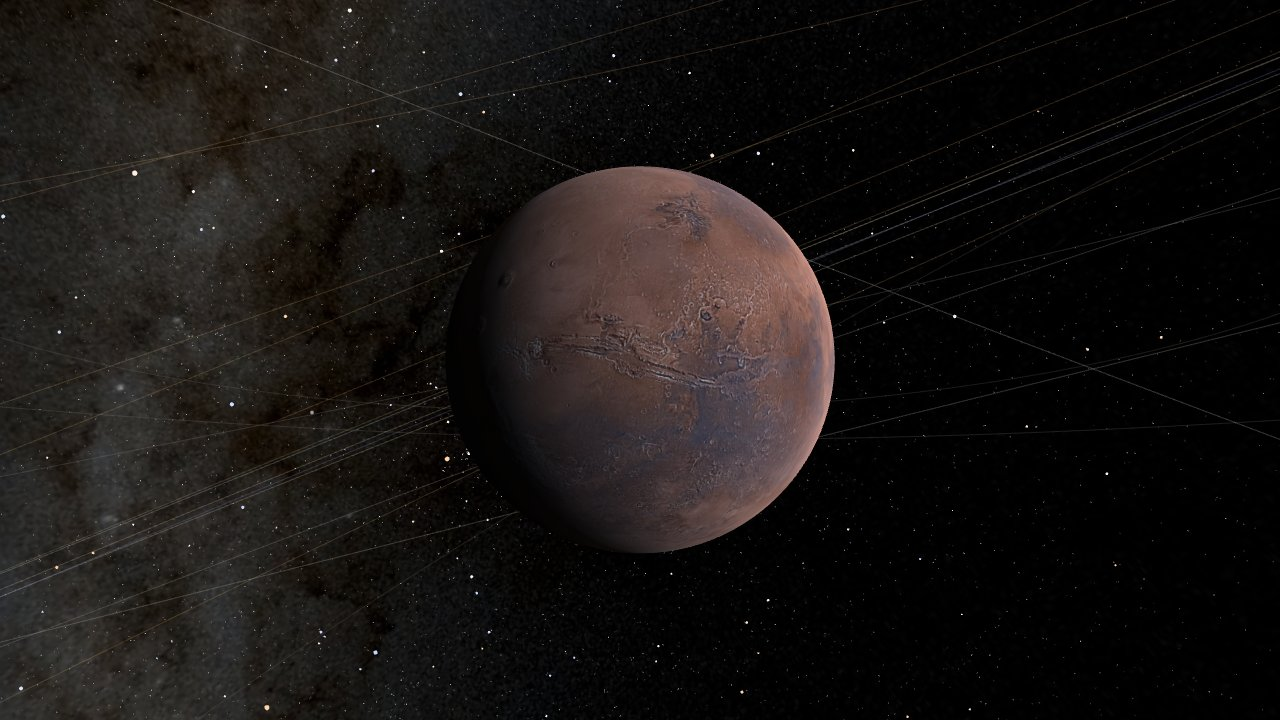
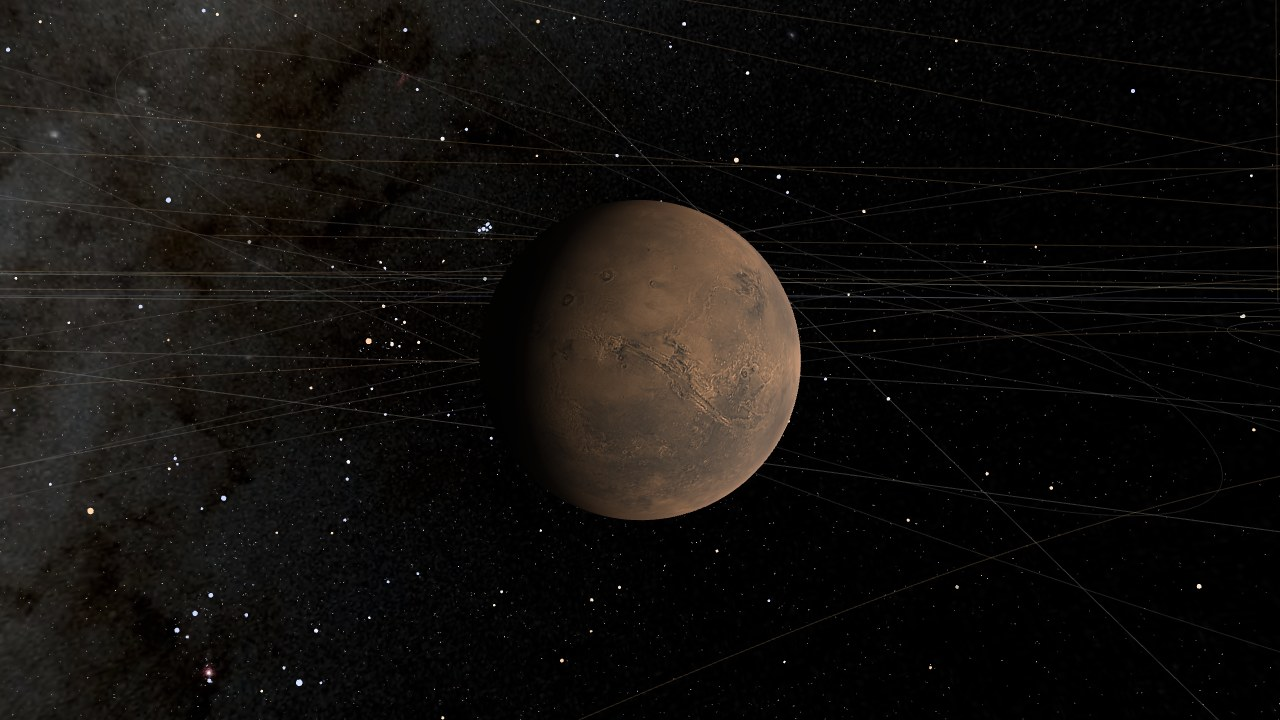
Adjust exposure near the ground, correct the Mars map hues, and retake README images with fixed scenes

diff --git a/tools/retake_gallery.py b/tools/retake_gallery.py
@@ -1,0 +1,93 @@
+#!/usr/bin/env python3
+# Solar System Voyager — Copyright (c) 2026 hubstacksea
+# MIT License (LICENSE を参照) — https://github.com/hubstacksea/Solar-System-Simulator
+"""README の画像のうち、地表の見え方（光り方・地図の色・露出）が変わると撮り直すものを、毎回同じ場面で撮る。
+
+日時はすべて固定（PC の時刻によらない）。場所と向きは天体に固定した座標の共有リンク（at=）で指定する。
+
+使い方: python3 tools/retake_gallery.py <実行ファイル> <出力先フォルダ> [名前 ...] [--apply]
+  名前を省くとすべて撮る。--apply を付けると docs/screenshots/<名前>.jpg に書き出す（1280x720、JPEG 品質 88）
+必要なもの: Pillow（--apply の時だけ）
+"""
+import datetime
+import math
+import os
+import subprocess
+import sys
+
+
+def at(body, r_km, lat, lon, alt_km, az, pitch, t):
+    """天体の緯度・経度（度、球として）・高度に置き、方位 az・俯角 pitch（度）を向く共有リンク（t は J2000 からの日数）"""
+    la, lo = math.radians(lat), math.radians(lon)
+    up = (math.cos(la) * math.cos(lo), math.sin(la), -math.cos(la) * math.sin(lo))
+    north = (-math.sin(la) * math.cos(lo), math.cos(la), math.sin(la) * math.sin(lo))
+    east = (-math.sin(lo), 0.0, -math.cos(lo))
+    a, p = math.radians(az), math.radians(pitch)
+    h = [north[i] * math.cos(a) + east[i] * math.sin(a) for i in range(3)]
+    fwd = [h[i] * math.cos(p) + up[i] * math.sin(p) for i in range(3)]
+    u2 = [up[i] * math.cos(p) - h[i] * math.sin(p) for i in range(3)]
+    pos = [up[i] * (r_km + alt_km) for i in range(3)]
+    return "?t=%s&at=%s,%s&p=1" % (t, body, ",".join("%.6f" % x for x in pos + fwd + u2))
+
+
+def hours(iso):
+    """--hours に渡す、今から iso（UTC）までの時間"""
+    now = datetime.datetime.now(datetime.timezone.utc)
+    return "%.6f" % ((datetime.datetime.fromisoformat(iso).replace(tzinfo=datetime.timezone.utc) - now).total_seconds() / 3600)
+
+
+def earth_alt(lat, alt_km):
+    """地球の楕円体の上 alt_km の点の、半径 6378.137 km の球としての高度"""
+    a, b, l = 6378.137, 6356.752, math.radians(lat)
+    r = math.sqrt(((a * a * math.cos(l)) ** 2 + (b * b * math.sin(l)) ** 2) / ((a * math.cos(l)) ** 2 + (b * math.sin(l)) ** 2))
+    return r + alt_km - a
+
+
+COCKPIT = ["--cockpit", "--photo", "2"]
+# 名前: (起動オプション, 仕上げ（None: そのまま / "half": 2 倍の画素で撮って縮める / "crop": 2 倍の画素で撮って中央を切り出す）)
+SHOTS = {
+    "sunset": (lambda: ["--frames", "30", "--hours", hours("2026-10-29 02:09"), "--target", "3", "--at", "35", "-134", "0.1",
+                        "--face-sun", "3"], None),
+    "mars_sky": (lambda: ["--frames", "30", "--hours", hours("2026-10-29 08:09"), "--target", "4", "--at", "0", "0", "0.1",
+                          "--face-sun", "20"], None),   # 太陽高度 約 20°
+    "mars_map": (lambda: ["--frames", "220", "--photo", "2", "--hours", hours("2026-10-29 15:43"), "--target", "4", "--warp"],
+                 None),   # マリネリス峡谷が正面
+    "moon_terrain": (lambda: ["--frames", "300", *COCKPIT, "--share", at("Moon", 1737.4, 25.9, 3.3, 0.5, 50, -3, 9819.0)], None),
+    "mars_terrain": (lambda: ["--frames", "300", *COCKPIT, "--share", at("Mars", 3395.4, -12.5, -66, 3, 100, -8, 9816.9)], None),
+    "earth_mountains": (lambda: ["--frames", "240", *COCKPIT, "--share",
+                                 at("Earth", 6378.137, 27.80, 86.95, earth_alt(27.80, 7.0), 0, 5, 9816.58)], None),
+    "apollo15_landing": (lambda: ["--frames", "600", "--photo", "2", "--share", "?apollo=15&scene=12"], None),
+    # スカイクレーン: 着地の 8.5 秒前のパーシビアランス（中心から 3391.6015 km）の南 69 m・上 50 m から北へ 36° 見下ろす
+    "perseverance_skycrane": (lambda: ["--frames", "200", "--zoom", "12", "--dpi", "2", *COCKPIT, "--share",
+                                       at("Mars", 3391.6015, 18.444626 - math.degrees(0.069 / 3391.6015), 77.450789, 0.050, 0, -36,
+                                          "%.8f" % (7719.36375947 - 8.5 / 86400)) + "&tg=Perseverance"], "half"),
+    "spirit_airbags": (lambda: ["--frames", "200", "--zoom", "16", "--dpi", "2", *COCKPIT, "--share",
+                                at("Mars", 3392.30, -14.5747, 175.4785, 0.15, 359.2, 46, "%.8f" % (1463.68439725 - 3 / 86400))
+                                + "&tg=Spirit"], "crop"),
+}
+
+
+def main():
+    args = [a for a in sys.argv[1:] if a != "--apply"]
+    exe, out = os.path.abspath(args[0]), args[1]
+    names = args[2:] or list(SHOTS)
+    os.makedirs(out, exist_ok=True)
+    for n in names:
+        opts, finish = SHOTS[n]
+        png = os.path.join(out, n + ".png")
+        r = subprocess.run([exe, "--shot", png, *opts()], stdout=subprocess.DEVNULL, stderr=subprocess.DEVNULL, timeout=600)
+        print(n, r.returncode)
+        if "--apply" in sys.argv:
+            from PIL import Image
+            im = Image.open(png).convert("RGB")
+            if finish == "half":
+                im = im.resize((1280, 720), Image.LANCZOS)
+            elif finish == "crop":
+                w, h = im.size
+                im = im.crop((w // 2 - 640, h // 2 - 360, w // 2 + 640, h // 2 + 360))
+            assert im.size == (1280, 720), (n, im.size)
+            im.save(os.path.join("docs", "screenshots", n + ".jpg"), quality=88, optimize=True)
+
+
+if __name__ == "__main__":
+    main()

diff --git a/src/app/render3d.h b/src/app/render3d.h
@@ -938,6 +938,53 @@ static double SkyDaylight(const App& app) {
     return std::min(1.0, density * 2.0) * light;
 }
 
+// 明るさの自動調整（露出）: 地表の近くでは、真下の地面に当たる光（直射 + 空の光。シェーダの sunTint・skyL と同じ式、太陽が
+// 真上の時を 1）が弱いほど画面を明るくし、白い物が白く写るようにする（光の -0.7 乗、最大 2.2 倍）。場面の平均で決めると雪原が
+// 灰色に写るので、光の強さで決める。目は明るい夕焼けの空にも合わせるので、太陽高度 2〜12° で弱めて日の入りで 1。宇宙からと夜は 1
+static double ExposureTarget(const App& app) {
+    const Cam& c = app.cam;
+    int best = -1;
+    double bestK = 1e300;
+    for (size_t i = 0; i < app.B.size(); i++) {
+        const BodyDef& d = app.B[i].d;
+        if (d.kind != KIND_ROCKY && d.kind != KIND_EARTH) continue;
+        double k = SurfaceDist(app.B[i], c.pos) / d.radius;
+        if (k < bestK) { bestK = k; best = (int)i; }
+    }
+    if (best < 0 || bestK > 0.01 || HazeWorldOf(app.B[best].d)) return 1;
+    const Body& b = app.B[best];
+    V3 up = Norm(c.pos - b.pos);
+    double el = Dot(up, Norm(app.B[HostStar(app.B, best)].pos - c.pos));
+    double e = std::max(el, 0.0), illum = e;
+    for (const SkyAtmosphere& a : SKY_ATM)
+        if (a.body == best) {
+            double m = std::min(1.0 / (e + 0.06), 7.0), ext[3] = {a.ext.x, a.ext.y, a.ext.z}, alb[3] = {a.alb.x, a.alb.y, a.alb.z};
+            double w[3] = {0.3, 0.59, 0.11};
+            illum = 0;
+            for (int k = 0; k < 3; k++) {
+                double tz = std::exp(-ext[k]), dz = a.down * alb[k] * (1 - tz) / tz;
+                double sky = a.down * alb[k] * (1 - std::exp(-ext[k] * m)) / tz * e;
+                illum += w[k] * (e * std::exp(-ext[k] * std::max(m - 1, 0.0)) + sky) / (1 + dz);
+            }
+        }
+    double g = std::min(2.2, std::pow(std::max(illum, 0.1), -0.7));
+    double day = std::max(0.0, std::min(1.0, (el - 0.035) / 0.17));
+    double near = 1 - std::max(0.0, std::min(1.0, (bestK - 0.002) / 0.008));
+    return 1 + (g - 1) * day * near;
+}
+
+// 露出の倍率を求めて、天体と自機のシェーダに渡す（3D を描く前に毎フレーム。シェーダの expo で掛ける）。空の明るさは見た目に
+// 合わせた値で、明るい空にも目が合うので掛けない
+static void UpdateExposure(App& app, float dt) {
+    double t = ExposureTarget(app);
+    static V3 last(1e300, 0, 0);   // ワープ・共有リンクなどで 1 フレームに 100 km 以上動いた時はすぐ合わせる
+    if (Len(app.cam.pos - last) > 100) app.exposure = (float)t;
+    else app.exposure += (float)((t - app.exposure) * std::min(1.0, dt * 1.5));   // 目の順応のようにゆっくり
+    last = app.cam.pos;
+    SetShaderValue(app.shader, app.locExposure, &app.exposure, SHADER_UNIFORM_FLOAT);
+    SetShaderValue(app.shipShader, app.locShipExposure, &app.exposure, SHADER_UNIFORM_FLOAT);
+}
+
 static void DrawSkyAtmosphere(const App& app) {
     double density, sunEl;
     V3 up;

diff --git a/src/main.cpp b/src/main.cpp
@@ -452,6 +452,7 @@ int main(int argc, char** argv) {
     app.locMapInfo2 = GetShaderLocation(app.shader, "mapInfo2");
     app.locMapLatK = GetShaderLocation(app.shader, "mapLatK");
     app.locOppB0 = GetShaderLocation(app.shader, "oppB0");
+    app.locExposure = GetShaderLocation(app.shader, "exposure");
     app.skyShader = LoadShaderFromMemory(GlslForPlatform(SKY_VS).c_str(), GlslForPlatform(SKY_FS).c_str());
     app.beltShader = LoadShaderFromMemory(GlslForPlatform(BELT_VS).c_str(), GlslForPlatform(BELT_FS).c_str());
     app.miniShader = LoadShaderFromMemory(GlslForPlatform(MINIGLOBE_VS).c_str(), GlslForPlatform(MINIGLOBE_FS).c_str());
@@ -479,6 +480,12 @@ int main(int argc, char** argv) {
     StartDeferredAssetDownloads();   // 地図・形・月などは、起動してから裏で読み込む
 #endif
     app.shipShader = LoadShaderFromMemory(GlslForPlatform(SHIP_VS).c_str(), GlslForPlatform(SHIP_FS).c_str());
+    app.locShipExposure = GetShaderLocation(app.shipShader, "exposure");
+    {   // 露出の倍率は毎フレーム UpdateExposure で渡す。それより前に描いても暗くならないよう 1 にしておく
+        float one = 1;
+        SetShaderValue(app.shader, app.locExposure, &one, SHADER_UNIFORM_FLOAT);
+        SetShaderValue(app.shipShader, app.locShipExposure, &one, SHADER_UNIFORM_FLOAT);
+    }
     app.locSunDir = GetShaderLocation(app.shipShader, "sunDir");
     app.locSunColor = GetShaderLocation(app.shipShader, "sunColor");
     app.locFillDir = GetShaderLocation(app.shipShader, "fillDir");
@@ -793,6 +800,7 @@ int main(int argc, char** argv) {
             rlScalef(rk, rk, 1);
         }
         ClearBackground({1, 2, 6, 255});
+        UpdateExposure(app, (float)dt);
         {
             Camera3D sky = {{0, 0, 0}, {0, 0, -1}, {0, 1, 0}, 60, CAMERA_PERSPECTIVE};
             BeginMode3D(sky);

diff --git a/src/ship_model.h b/src/ship_model.h
@@ -1338,6 +1338,12 @@ uniform vec3 engineColor;
 uniform float engineGlow; // 0..1
 uniform float navBlink;   // 0..1
 out vec4 finalColor;
+uniform float exposure;    // 明るさの自動調整の倍率（UpdateExposure）。0.75 までは掛けたまま、それより明るい所はなめらかに 1 へ寄せる（白く飛ばない）
+vec3 expo(vec3 c) {
+    if (exposure <= 1.0) return c;
+    vec3 e = c * exposure;
+    return mix(e, 0.75 + 0.25 * (1.0 - exp(-(e - 0.75) / 0.25)), step(0.75, e));
+}
 
 void main() {
     vec3 N = normalize(fragNormal);
@@ -1387,6 +1393,6 @@ void main() {
         col = mix(col, env + sunColor * pow(max(dot(R, L), 0.0), 400.0) * 3.0, fres);
     }
     col = col / (1.0 + 0.15 * col);   // ハイライトの白飛びを抑える
-    finalColor = vec4(col, 1.0);
+    finalColor = vec4(expo(col), 1.0);
 }
 )";

diff --git a/src/app/app_state.h b/src/app/app_state.h
@@ -196,6 +196,8 @@ struct App {
     int locSkyUp = -1, locSkySun = -1, locSkyBeta = -1, locSkyMie = -1, locSkyOzone = -1, locSkyDensity = -1, locSkySunVis = -1;
     int quality = 2;                      // 画質 0: 低, 1: 中, 2: 高
     float autoRes = 1;                    // ブラウザ版: 描くのが重い時に 3D の解像度に掛ける倍率（UpdateAutoRes）
+    float exposure = 1;                   // 明るさの自動調整の倍率（UpdateExposure）
+    int locExposure = -1, locShipExposure = -1;
     RenderTexture2D lowRes{};             // 画質「低」で 3D を描く縮小バッファ
     int locRelBeta = -1, locRelDir = -1, locSunInfo = -1;
     int locLight = -1, locLightObj = -1, locC1 = -1, locC2 = -1, locAtm = -1, locParams = -1, locDetail = -1;

diff --git a/README.en.md b/README.en.md
@@ -169,6 +169,8 @@ python3 tools/run_checks.py build/solar_voyager   # --no-display without a scree
 
 It checks the embedded data, 9 solar eclipses against NASA's catalog, the number of historic events, that the browser version's font has every character shown on screen (if not, rebuild it with `tools/make_web_font.py`), the browser version's shader (the vertex shader must call the relief calculation from one place only; writing it in several places kept the browser from finishing the shader translation, so it never started), warps to every body (arriving facing it and staying still) and light-speed flights just above the oblate planets (the surface must not vanish), printing PASS / FAIL for each (about 10 minutes in all).
 
+After changing how surfaces look, retake the README images that show the ground in the same scenes (fixed dates and places) with `python3 tools/retake_gallery.py build/solar_voyager <output folder> [name ...] --apply` (requires Pillow).
+
 ### Browser version (Emscripten)
 
 ```sh
@@ -334,7 +336,7 @@ On the "Apollo program" page of the event list (K), pick a flight and press Ente
 - **Body positions**: Mercury to Neptune are computed from the planetary theory VSOP87 (Bretagnon & Francou 1988, truncated to about 5,700 terms): within 1.5″ of JPL Horizons (DE441) for Mercury to Saturn and 8″ for Uranus and Neptune in 1500–2500, and within 4.4′ over 3000 BC to AD 3000 (growing into the distant past with the error of VSOP87 itself). The orbit lines are ellipses from the current position and velocity, so they pass exactly through the planets. Pluto is computed from JPL mean orbital elements and their rates via Kepler's equation. The slowing of Earth's rotation (ΔT; the Espenak & Meeus expressions used by NASA's eclipse catalog for 500 BC to AD 2150 and Morrison & Stephenson 2004 outside; about 4.8 hours in 500 BC) and the precession of Earth's axis (IAU 1976) are included. The Moon uses the series of chapter 47 of Meeus's *Astronomical Algorithms* (a truncated ELP-2000/82) with a long-term correction fitted to the Moon of JPL Horizons (DE441), so its real position and phase are reproduced. Its orientation follows the IAU rotation model of the Moon, so seen from Earth it nods by about ±8° in longitude and ±7° in latitude (libration), showing a little beyond its edges. Solar eclipses from 763 BC to AD 2950 agree with NASA's catalog within 4 minutes and 2° (checked by `tools/run_checks.py`). Other moons are placed on circular orbits in the orbital planes from JPL's mean orbital elements, with their positions fitted to JPL Horizons for 1980–2070 (most within 1°, at most a few degrees; Mimas includes its ±43° libration from the resonance with Tethys). Shadows of Jupiter's moons fall on Jupiter at nearly the real times
 - **Dwarf planets, asteroids and comets**: Ceres, Vesta, Eris, Ryugu, Bennu, Itokawa, Didymos (with its moon Dimorphos), Halley's Comet, Comet Hale-Bopp, Comet Hyakutake and Comet Churyumov-Gerasimenko. Their orbital elements and rates, in the same form as the planets', are fitted to JPL Horizons positions for 1980–2070 (direction seen from the Sun within 0.6°). Ryugu (2012–2024) and Churyumov-Gerasimenko (2012–2018) are fitted only around the time spacecraft visited them (errors 0.9° and 0.07°), because encounters with Earth and Jupiter change their orbits; they drift further away from those years. Comet Encke (period 3.3 years) is not included: Jupiter's perturbations and other effects shift its perihelion times from one passage to the next, so it cannot be fitted in this form (errors over 20°). The asteroids that spacecraft passed on their way (Gaspra, Ida, Dinkinesh, Donaldjohanson, Eurybates, Polymele, Leucus, Orus, Patroclus, Torifune and Apophis) are fitted around the time of those flybys (errors within 0.2°). Sizes and rotation periods come from the JPL Small-Body Database; Gaspra, Ida and Donaldjohanson have their real shapes, and the rest are spheres. Apophis passes 38,000 km from Earth's center on 13 April 2029, which changes its orbit, so from 2024 to 2060 it follows its JPL Horizons trajectory
 - **Comet tails**: inside 4 AU from the Sun, comets grow a coma (the glow around the nucleus) and tails that get longer and brighter closer to the Sun (the great comet Hale-Bopp starts farther out and grows larger). The blue ion tail points straight away from the Sun, the yellowish dust tail curves back along the orbit. From the comet page of the K list you can warp to Halley's perihelia in 1986 and 2061, Hyakutake passing 0.1 AU from Earth on 25 March 1996, and more
-- **Surfaces**: Jupiter carries Cassini's global map and is turned so that the Great Red Spot sits at its observed longitude for the date (System II; records since 1962, then a drift of 16° per year). Saturn also carries a Cassini global map (August 2011, showing the aftermath of the great northern storm); its poles and the band from the equator to 17° S, hidden by the ring shadow, are procedural clouds. Mercury, Mars, Ceres, Vesta, Pluto and the moons Io, Europa, Ganymede, Callisto, Mimas, Enceladus, Tethys, Dione, Rhea, Iapetus, Miranda, Ariel, Umbriel, Titania, Oberon, Triton and Charon carry real maps from spacecraft images (Olympus Mons and Valles Marineris, Pluto's heart and Enceladus's tiger stripes appear where they really are). Mars also gets relief shading from MOLA elevations. Mercury, Mars, Ceres, Vesta and Pluto rotate according to the IAU prime meridians, and the moons always keep the same face toward their planet. Areas that were never imaged (the northern hemispheres of the Uranian moons and parts of Pluto, Triton and Charon) and detail finer than the maps are filled in procedurally. Iapetus's map has its brightness flattened, so its bright and dark hemispheres are painted procedurally. Uranus, Neptune and the clouds of Venus keep procedural patterns, because no freely redistributable global maps could be found (and Uranus and Venus's clouds show almost no features in visible light). Below the cloud layer 70 km above Venus you come down onto a surface from Magellan elevations: inside the clouds is white fog, below them a uniform overcast sky, and the ground disappears into the thick haze within a few km (the brightness and haze density are estimates). The other bodies are generated procedurally in shaders; finer patterns and relief appear as you get closer, so surfaces stay detailed even near the ground. The ground on Earth and Mars is lit by sunlight weakened on its way through the atmosphere and by the light it scatters down from the sky (more on surfaces facing up; Rayleigh scattering and aerosols on Earth, and on Mars dust that dims sunlight about equally in every color and absorbs blue; the optical depths and the like are estimates). Midday colors are unchanged, shade takes the color of the sky, and mornings and evenings turn red on Earth and reddish brown on Mars. Airless bodies are lit with the opposition effect, which brightens the ground when the Sun is behind you because the shadows between grains are hidden (Hapke's shadow-hiding term, with the lunar values B0 = 1 and h = 0.06 used for all of them). Earth's ice sheets, snow and sea ice and the Martian polar caps (the white parts of the maps) get forward scattering that brightens them when you look toward the Sun at a low angle, plus a sheen, and the Martian caps get no small procedural craters. Near the ground, relief finer than the maps is shaded by surface material: on the Moon, boulders (1–12 m across) in proportion to Diviner's rock abundance; on Mars, from the TES thermal inertia and the map brightness, subdued small relief where there is dust, ripples (25 m wavelength) and dunes (300 m) on sand, and boulders on rocky ground; on Earth, judged from the map colors, dunes (120 m and 800 m) in sand deserts, a bumpy canopy in forests and wind-carved ridges on snow and ice (where each material is comes from measurements or estimates; shapes finer than a few hundred meters are procedural, sized after real ones)
+- **Surfaces**: Jupiter carries Cassini's global map and is turned so that the Great Red Spot sits at its observed longitude for the date (System II; records since 1962, then a drift of 16° per year). Saturn also carries a Cassini global map (August 2011, showing the aftermath of the great northern storm); its poles and the band from the equator to 17° S, hidden by the ring shadow, are procedural clouds. Mercury, Mars, Ceres, Vesta, Pluto and the moons Io, Europa, Ganymede, Callisto, Mimas, Enceladus, Tethys, Dione, Rhea, Iapetus, Miranda, Ariel, Umbriel, Titania, Oberon, Triton and Charon carry real maps from spacecraft images (Olympus Mons and Valles Marineris, Pluto's heart and Enceladus's tiger stripes appear where they really are). Mars also gets relief shading from MOLA elevations. Mercury, Mars, Ceres, Vesta and Pluto rotate according to the IAU prime meridians, and the moons always keep the same face toward their planet. Areas that were never imaged (the northern hemispheres of the Uranian moons and parts of Pluto, Triton and Charon) and detail finer than the maps are filled in procedurally. Iapetus's map has its brightness flattened, so its bright and dark hemispheres are painted procedurally. Uranus, Neptune and the clouds of Venus keep procedural patterns, because no freely redistributable global maps could be found (and Uranus and Venus's clouds show almost no features in visible light). Below the cloud layer 70 km above Venus you come down onto a surface from Magellan elevations: inside the clouds is white fog, below them a uniform overcast sky, and the ground disappears into the thick haze within a few km (the brightness and haze density are estimates). The other bodies are generated procedurally in shaders; finer patterns and relief appear as you get closer, so surfaces stay detailed even near the ground. The ground on Earth and Mars is lit by sunlight weakened on its way through the atmosphere and by the light it scatters down from the sky (more on surfaces facing up; Rayleigh scattering and aerosols on Earth, and on Mars dust that dims sunlight about equally in every color and absorbs blue; the optical depths and the like are estimates). Midday colors are unchanged, shade takes the color of the sky, and mornings and evenings turn red on Earth and reddish brown on Mars. Near the ground, the weaker the light falling on the ground, the brighter the ground and the ship are shown (like the eye adapting: the light to the power -0.7, at most 2.2 times; bright parts level off so they do not blow out, and the sky and haze are left as they are; not around sunset or from space). The Mars map (Viking MDIM 2.1 colored by NASA Ames) paints the dark regions bluish gray, so only its hue is replaced with estimated reflectance colors for bright dust and dark sand by brightness. Airless bodies are lit with the opposition effect, which brightens the ground when the Sun is behind you because the shadows between grains are hidden (Hapke's shadow-hiding term, with the lunar values B0 = 1 and h = 0.06 used for all of them). Earth's ice sheets, snow and sea ice and the Martian polar caps (the white parts of the maps) get forward scattering that brightens them when you look toward the Sun at a low angle, plus a sheen, and the Martian caps get no small procedural craters. Near the ground, relief finer than the maps is shaded by surface material: on the Moon, boulders (1–12 m across) in proportion to Diviner's rock abundance; on Mars, from the TES thermal inertia and the map brightness, subdued small relief where there is dust, ripples (25 m wavelength) and dunes (300 m) on sand, and boulders on rocky ground; on Earth, judged from the map colors, dunes (120 m and 800 m) in sand deserts, a bumpy canopy in forests and wind-carved ridges on snow and ice (where each material is comes from measurements or estimates; shapes finer than a few hundred meters are procedural, sized after real ones)
 - **Earth**: built from real NASA data — continents, coastlines, elevation (relief shading), ocean depth (shallow-water color), sea ice and city lights at night (about 10 km resolution; the land elevations in an area about 3,800 km across around the camera are about 1.85 km; finer detail is filled in procedurally). Its rotation follows Greenwich sidereal time, so the regions in daylight and the lit cities at night match the PC clock. The surface colors follow the date using all 12 months of Blue Marble (winter snow, green rainy seasons and so on), and clouds come from NASA's global cloud image (one day's distribution) with finer streaks added
 - **Moon**: real NASA data (LRO color and LOLA elevation, about 3–5 km resolution; the elevations in an area about 3,900 km across around the camera are about 1.9 km). Maria, craters and ray systems are where they really are; smaller craters are filled in procedurally
 - **Surface heights**: within 8 body radii of Earth, the Moon, Mars, Mercury, Venus, Ceres, Vesta, Pluto, Charon and Titan, the elevation data is drawn as 3D terrain at its true height (1x). Altitude and surface collisions are measured from the terrain, and the Apollo lunar modules and the descent stages left on the Moon sit on it. The data spacing is about 1.85 km for Earth (on land around the camera; about 10 km farther away), about 1.9 km for the Moon (around the camera; about 5 km farther away), about 3.7 km for Mars (around the camera; about 15 km farther away), about 7.5 km for Mercury, about 19 km for Venus, about 3 km for Ceres, about 1.8 km for Vesta, about 3.6 km for Pluto and Charon and about 11 km for Titan, and Earth's oceans sit at sea level. Relief finer than the data is added procedurally to the shape of the terrain (it does not match the real terrain): on Earth, slopes that follow the steepness of the terrain (rugged on steep mountains, gentle on plains); on the other bodies, the same craters and slopes as in the surface shading (the lunar maria have fewer craters and are flat, and Titan's lakes and seas are flat). Altitude and collisions are measured from the same shape. The shape is detailed down to the spacing of the terrain grid's vertices, which gets coarser away from the camera. The relief is computed at lattice points fixed to the ground and interpolated, so its shape does not ripple in flight. Mount Fuji (about 3,360 m in the data) and Everest (about 8,210 m) stand as 3D mountains. Vesta gets its lumpy shape with the Rheasilvia basin. Pluto and Charon only have elevations for the hemisphere New Horizons saw up close; the rest is an estimated height joined smoothly from the surroundings

diff --git a/CHANGELOG.md b/CHANGELOG.md
@@ -4,6 +4,12 @@
 
 リリースの時は、その版の項目が GitHub のリリースノートにも載ります。
 
+## 2.58.0 (2026-11-20)
+
+- 地表の近くで明るさを自動で合わせるようにした（地面に当たる光（直射 + 空の光）が弱いほど地面と自機を明るく写す。光の強さの -0.7 乗、最大 2.2 倍で、変化はゆっくり。明るさ 0.75 より上はなめらかに頭打ちにして白く飛ばさない。空とかすみには掛けない。目は明るい夕焼けの空にも合わせるので、太陽高度 2〜12° で弱めて日の入りで掛けない。宇宙からと夜は掛けない）。昼の南極の雪が白く、太陽の低い月面が見やすくなった
+- 火星の地図の色合いを直した（Viking MDIM 2.1 に NASA Ames が付けた色は暗い砂の地域が青灰色で、夕方の地面が紫に見えていた。明るさは地図のまま、色合いを明るさに応じた反射スペクトルの目安（反射率の比 赤:緑:青 は明るい塵 1 : 0.55 : 0.29、暗い砂 1 : 0.73 : 0.55。観測の概数）に置き換える。極冠は変えない。USGS の Viking 全球カラーモザイクも比べたが、暗い地域がさらに青かった）
+- README の画像のうち、太平洋の夕暮れ・火星の昼の空（撮った時の PC の時刻で撮っていたので、日時を固定して撮り直した）、火星・マリネリス峡谷・月のハドリー山・エベレスト・アポロ 15 号の着陸・パーシビアランスのスカイクレーン（火星の細かい標高で機体の高さが変わり、元の位置からは見えなくなっていた）を撮り直した。撮り方は tools/retake_gallery.py
+
 ## 2.57.0 (2026-11-20)
 
 - 地球と火星の地面に、空から届く光を入れた（大気に散らされて地面へ向かう日光。上を向いた面ほど多く受ける。太陽が真上の時の直射と空の光の和を白とするので、真昼の色と明るさは今までと同じで、日陰には空の色の光が入り、朝夕は直射が弱まって空の光の色に寄る）。南極の昼の雪が黄ばんだ灰色からほぼ白に、砂丘の陰が真っ黒から空の光で見えるようになった

diff --git a/CHANGELOG.en.md b/CHANGELOG.en.md
@@ -4,6 +4,12 @@
 
 The release workflow copies the section of the version being released into the GitHub release notes.
 
+## 2.58.0 (2026-11-20)
+
+- Near the ground the brightness is now adjusted automatically (the weaker the light falling on the ground, direct plus skylight, the brighter the ground and the ship are shown: the light to the power -0.7, at most 2.2 times, changing slowly; values above 0.75 level off smoothly so nothing blows out; the sky and haze are left as they are; since the eye also adapts to a bright sunset sky, it fades out between solar altitudes of 12° and 2° and is off at sunset; off from space and at night). Antarctic snow at midday is white and the Moon under a low Sun is easier to see
+- Fixed the hues of the Mars map (the colors NASA Ames gave Viking MDIM 2.1 paint the dark sandy regions bluish gray, which made the ground look purple in the evening; the brightness stays as in the map and the hue is replaced by estimated reflectance colors by brightness: red:green:blue reflectance of 1 : 0.55 : 0.29 for bright dust and 1 : 0.73 : 0.55 for dark sand, rounded from observations; the polar caps are unchanged; USGS's Viking global color mosaic was also compared but its dark regions are even bluer)
+- Retook the README images of dusk over the Pacific and the Martian daytime sky (they had been taken at the PC's current time, so the dates are now fixed), Mars, Valles Marineris, Mons Hadley, Everest, the Apollo 15 landing and Perseverance's sky crane (the fine Mars elevations had changed the craft's height so it was out of view from the old position). The shots are in tools/retake_gallery.py
+
 ## 2.57.0 (2026-11-20)
 
 - The ground on Earth and Mars now receives light from the sky (sunlight scattered down by the atmosphere, more on surfaces facing up). The direct sunlight plus skylight with the Sun overhead is taken as white, so midday colors and brightness are unchanged, shade receives sky-colored light, and in the morning and evening the light shifts toward the sky's color as the direct sunlight weakens. Antarctic snow at midday turned from yellowish gray to nearly white, and the lee sides of dunes are no longer pitch black
